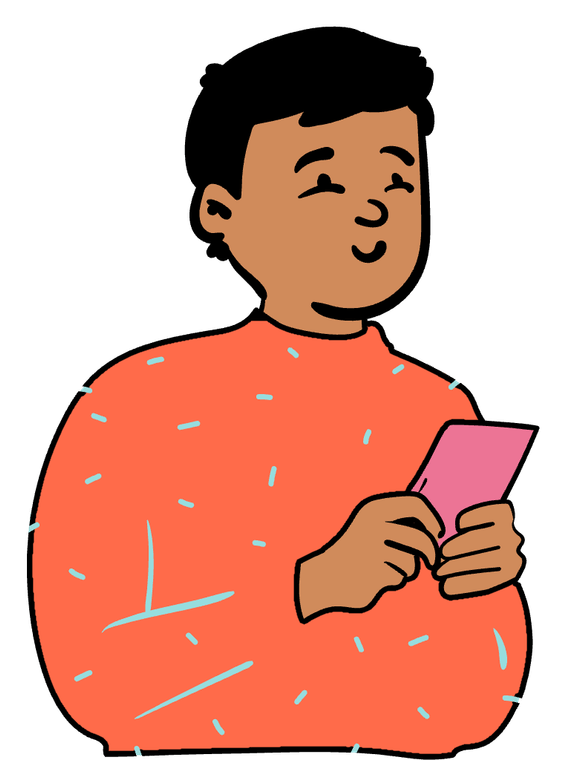
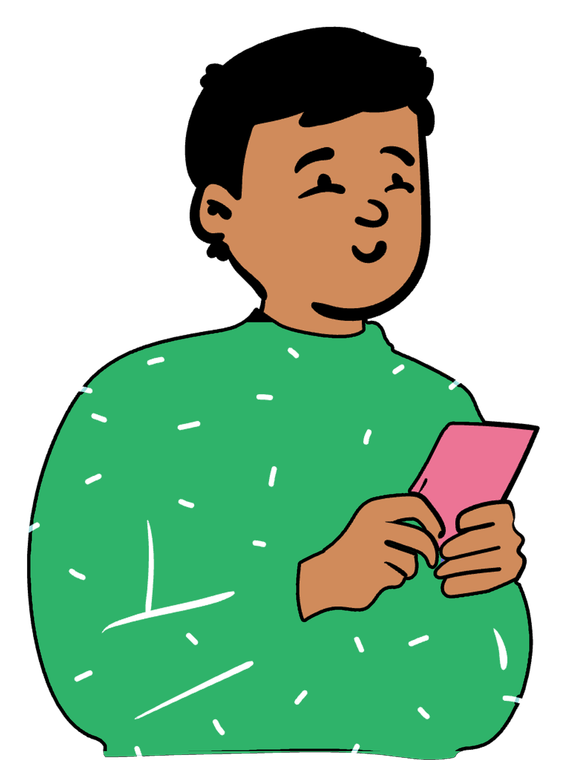
Cleaner green sweater recolour; volume and custom link in cards

diff --git a/site.css b/site.css
@@ -281,12 +281,12 @@ h2 {
 .pad.is-playing .pad-secs { color: #1e1e1e; }
 
 /* custom link */
-.custom { margin-top: 52px; }
+.custom { margin-top: 52px; padding: 26px 28px 22px; background: var(--card); border-radius: 22px; box-shadow: inset 0 0 0 1px var(--line), 0 18px 40px -28px rgba(0, 0, 0, 0.3); }
 .custom > label { font-size: 15px; font-weight: 600; letter-spacing: -0.01em; }
 .custom-row { margin-top: 12px; display: flex; gap: 10px; }
 .custom input {
   flex: 1; min-width: 0; height: 48px; padding: 0 16px;
-  border: 0; border-radius: 12px; background: var(--card);
+  border: 0; border-radius: 12px; background: var(--page);
   box-shadow: inset 0 0 0 1px var(--line);
   font-size: 15px; caret-color: var(--alert);
 }
@@ -309,7 +309,8 @@ h2 {
 }
 .keys-row .pads { margin-top: 0; grid-template-columns: repeat(4, minmax(0, 1fr)); }
 .level { position: sticky; top: 32px; }
-.level > label { display: flex; justify-content: space-between; align-items: baseline; font-size: 15px; font-weight: 600; }
+.level-card { padding: 22px 22px 20px; background: var(--card); border-radius: 22px; box-shadow: inset 0 0 0 1px var(--line), 0 18px 40px -28px rgba(0, 0, 0, 0.3); }
+.level-card > label { display: flex; justify-content: space-between; align-items: baseline; font-size: 15px; font-weight: 600; }
 .level output { font-size: 28px; font-weight: 700; letter-spacing: -0.03em; font-variant-numeric: tabular-nums; }
 .level-note { margin-top: 12px; font-size: 13px; color: var(--muted); }
 .level-note.is-live { color: var(--alert-text); font-weight: 600; }
@@ -433,7 +434,7 @@ input[type="range"]::-moz-range-thumb {
 .note-keys svg { width: 84px; height: 49px; }
 .note-keys span { margin-top: 20px; }
 
-.note-volume { flex-direction: column; align-items: flex-start; margin-top: 18px; }
+.note-volume { flex-direction: column; align-items: flex-start; margin: 14px 0 0 14px; }
 .note-volume svg { width: 70px; height: 41px; margin-bottom: -6px; }
 
 .note-copy { justify-content: flex-end; margin: 64px 34px 4px 0; }
@@ -494,7 +495,7 @@ input[type="range"]::-moz-range-thumb {
   .close { margin-top: 120px; }
   .keys-row { margin-top: 44px; }
   .keys-row .pads { grid-template-columns: repeat(2, minmax(0, 1fr)); gap: 16px; }
-  .custom { margin-top: 36px; }
+  .custom { margin-top: 36px; padding: 20px 18px 18px; }
   .note-copy { margin-top: 36px; }
   .custom-row { flex-direction: column; }
   .custom input { flex: none; width: 100%; }

diff --git a/index.html b/index.html
@@ -98,10 +98,12 @@
   <p class="hand-note note-keys"><svg viewBox="0 0 124 72" aria-hidden="true" fill="none" stroke="currentColor" stroke-width="2.4" stroke-linecap="round"><path d="M112.4 56.8 C106.3 57.1, 85.9 62.4, 73.5 60.4 C61.1 58.4, 46.8 53.0, 38.0 44.8 C29.2 36.7, 23.3 17.0, 20.6 11.5 M110.7 59.7 C104.6 60.2, 85.3 63.9, 73.0 61.7 C60.7 59.4, 45.8 54.2, 37.0 46.0 C28.2 37.9, 23.0 18.5, 20.2 12.7"/><path d="M20.6 13.8 C19.9 15.0, 20.3 16.4, 20.5 27.1 M21.8 12.1 C21.5 15.1, 22.2 19.4, 21.1 26.3"/><path d="M20.6 13.8 C22.5 13.8, 25.5 13.9, 33.5 21.0 M21.8 12.1 C24.8 13.6, 29.0 16.2, 34.1 20.2"/></svg><span>Tap any key to hear it.</span></p>
         </div>
         <div class="level">
+          <div class="level-card">
           <label for="volume">Forced volume <output id="volume-out" for="volume">70%</output></label>
           <input type="range" id="volume" min="10" max="100" step="5" value="70" aria-describedby="volume-note">
           <p class="level-note" id="volume-note">One volume for every alert, your own link included. Let go of the slider to hear it.</p>
           <p class="level-note" id="mac-state" aria-live="polite">Works even on mute. Your volume goes back after.</p>
+          </div>
           <p class="hand-note note-volume"><svg viewBox="0 0 124 72" aria-hidden="true" fill="none" stroke="currentColor" stroke-width="2.4" stroke-linecap="round"><path d="M112.4 56.8 C106.3 57.1, 85.9 62.4, 73.5 60.4 C61.1 58.4, 46.8 53.0, 38.0 44.8 C29.2 36.7, 23.3 17.0, 20.6 11.5 M110.7 59.7 C104.6 60.2, 85.3 63.9, 73.0 61.7 C60.7 59.4, 45.8 54.2, 37.0 46.0 C28.2 37.9, 23.0 18.5, 20.2 12.7"/><path d="M20.6 13.8 C19.9 15.0, 20.3 16.4, 20.5 27.1 M21.8 12.1 C21.5 15.1, 22.2 19.4, 21.1 26.3"/><path d="M20.6 13.8 C22.5 13.8, 25.5 13.9, 33.5 21.0 M21.8 12.1 C24.8 13.6, 29.0 16.2, 34.1 20.2"/></svg><span>Go on, crank it up.</span></p>
         </div>
       </div>
